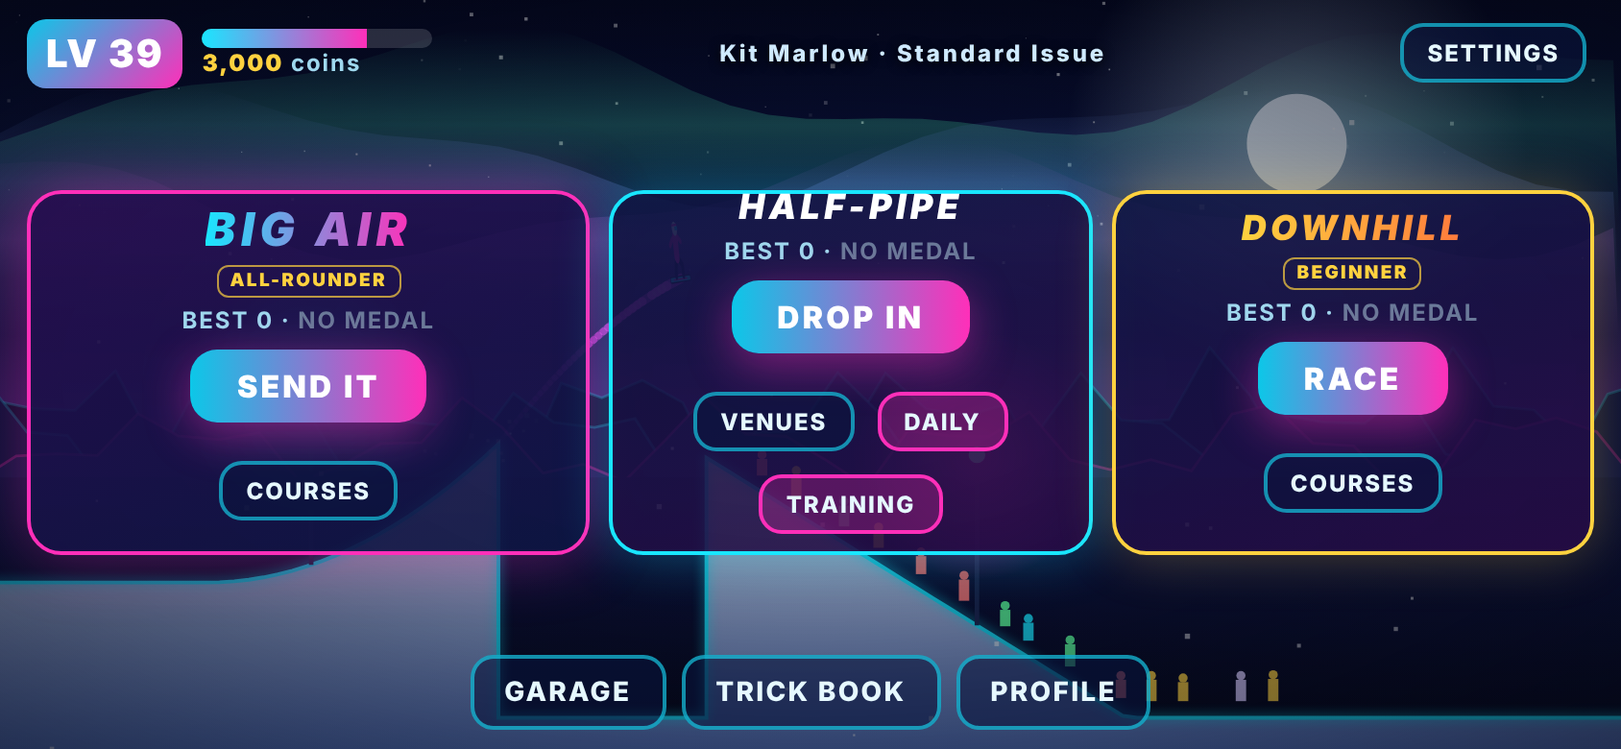
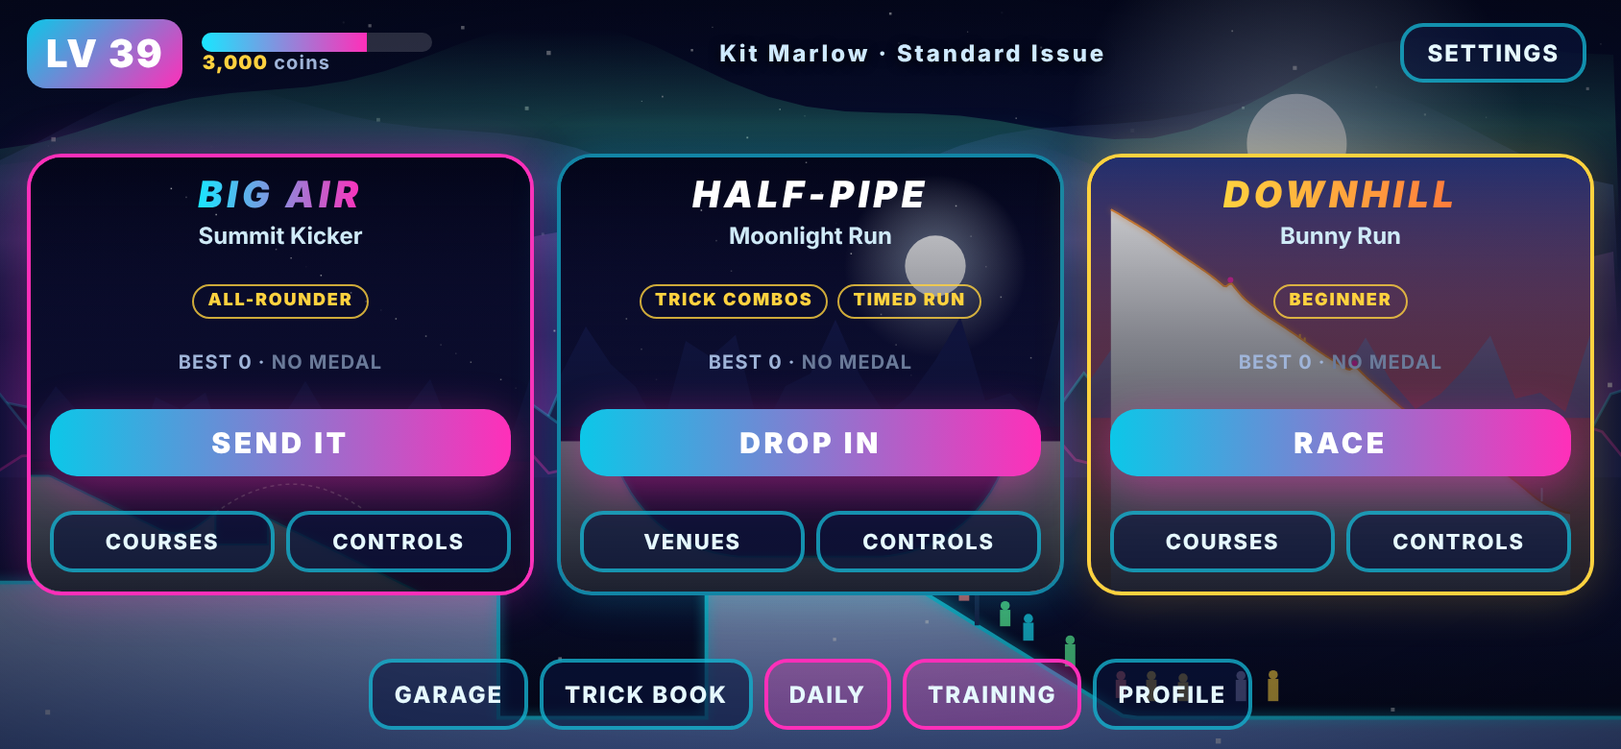
Add files via upload

diff --git a/index.html b/index.html
@@ -157,6 +157,47 @@ h3{margin:16px 0 8px;font:900 13px system-ui;letter-spacing:.2em;color:#cfeaff;t
 .big.sm2{padding:9px 24px;font-size:16px}
 @media (max-height:520px){.mcols{display:flex;gap:18px;align-items:center}.mcols>div{flex:1;min-width:0}.mcols .list{font-size:12px}.mcols .btn{padding:8px 12px;font-size:12px}}
 @media (max-height:460px){.card{padding:10px 14px}.big{padding:10px 26px;font-size:17px}.sub{margin-bottom:6px}.score{font-size:34px}}
+
+/* ---- uniform hub cards ---- */
+.hub .modes{display:flex;gap:12px;width:100%;max-width:920px;align-self:center;flex:1;min-height:0;max-height:270px;margin:auto 0}
+.hub .mode{position:relative;overflow:hidden;flex:1 1 0;min-width:0;max-width:none;padding:0;border-radius:18px;border:2px solid rgba(25,230,255,.55);background:#0a1038;display:block;box-shadow:0 0 24px rgba(25,230,255,.22)}
+.hub .mode.m-air{border-color:var(--mg);box-shadow:0 0 26px rgba(255,47,185,.3)}
+.hub .mode.m-dh{border-color:var(--gold);box-shadow:0 0 26px rgba(255,210,63,.26)}
+.hub .mbg{position:absolute;inset:0;width:100%;height:100%;display:block}.hub .mode .mv{display:block!important}
+.hub .mshade{position:absolute;inset:0;background:linear-gradient(180deg,rgba(5,8,24,.12),rgba(5,8,24,.5) 42%,rgba(5,8,24,.9))}
+.hub .mi{position:relative;z-index:1;height:100%;display:flex;flex-direction:column;align-items:center;justify-content:space-between;padding:10px 10px 10px;gap:4px;text-align:center}
+.hub .mt{font:900 clamp(19px,4.6vmin,26px) system-ui;letter-spacing:.12em;font-style:italic;line-height:1.1;color:#fff}
+.hub .m-air .mt{background:linear-gradient(90deg,var(--cy),var(--mg));-webkit-background-clip:text;background-clip:text;color:transparent}
+.hub .m-dh .mt{background:linear-gradient(90deg,#ffd23f,#ff7a3c);-webkit-background-clip:text;background-clip:text;color:transparent}
+.hub .mv{font:700 13px system-ui;color:#cfeaf7;margin-top:2px;white-space:nowrap;overflow:hidden;text-overflow:ellipsis;max-width:100%}
+.hub .mhead{min-width:0;max-width:100%}
+.hub .tagrow{display:flex;gap:5px;justify-content:center;flex-wrap:nowrap;min-height:18px}
+.hub .tagrow i{font:900 9px system-ui;font-style:normal;letter-spacing:.1em;border:1.5px solid rgba(255,210,63,.8);color:#ffd23f;border-radius:999px;padding:2px 7px;white-space:nowrap}
+.hub .meta{font:700 11px system-ui;letter-spacing:.06em;color:#9fb4d8;white-space:nowrap}
+.hub .mode .big{width:100%;margin:0;padding:10px 6px;font-size:17px;letter-spacing:.12em}
+.hub .row2{display:flex;gap:6px;width:100%}
+.hub .row2 .btn{flex:1;margin:0;padding:7px 4px;font-size:11px;letter-spacing:.08em;min-width:0}
+.hub .nav{flex-wrap:nowrap}
+.hub .nav{gap:6px}.hub .nav .btn{padding:9px 11px;font-size:12px;white-space:nowrap}
+@media (max-height:420px){.hub .mv{font-size:12px}.hub .mode .big{padding:8px 6px;font-size:15px}.hub .modes{max-height:230px}.hub .meta{font-size:10px}}
+@media (max-width:700px){.hub .nav .btn{padding:8px 9px;font-size:11px}.hub .modes{gap:8px}.hub .tagrow i{font-size:8px;padding:2px 5px}.hub .mode .big{font-size:14px;letter-spacing:.06em}}
+@media (max-aspect-ratio:1/1){.hub .modes{flex-direction:column;max-height:none;gap:8px}.hub .mode{flex:1 1 0;min-height:130px}.hub .nav{flex-wrap:wrap}.hub .mi{flex-direction:row;flex-wrap:wrap;justify-content:center;align-content:center;gap:6px 10px}.hub .mhead{flex:1 1 100%}.hub .tagrow{flex:1 1 100%}.hub .meta{flex:1 1 100%}.hub .mode .big{flex:1 1 40%;width:auto}.hub .row2{flex:1 1 55%;width:auto}}
+/* ---- how to play ---- */
+.how{display:flex;gap:16px;align-items:stretch;max-width:880px;margin:0 auto}
+.hphone{flex:0 0 46%;position:relative;min-height:170px;border:2px solid rgba(25,230,255,.5);border-radius:18px;background:linear-gradient(160deg,rgba(14,22,66,.9),rgba(40,12,70,.9));display:flex;overflow:hidden}
+.hz{flex:1;display:flex;flex-direction:column;align-items:center;justify-content:center;gap:6px;padding:10px;text-align:center}
+.hz span{font:600 11px system-ui;color:#9fd8ee}
+.hl{background:rgba(25,230,255,.1);border-right:2px dashed rgba(25,230,255,.4)}
+.hl b{font:900 22px system-ui;letter-spacing:.1em;color:var(--cy);border:2px solid var(--cy);border-radius:50%;width:76px;height:76px;display:flex;align-items:center;justify-content:center;font-size:15px}
+.hr{flex:0 0 40%}
+.hgb{display:grid;grid-template-columns:1fr 1fr;gap:5px}
+.hgb i{font:800 9px system-ui;font-style:normal;border:2px solid var(--cy);border-radius:50%;width:38px;height:38px;display:flex;align-items:center;justify-content:center}
+.hub2{font:900 10px system-ui;border:2px solid var(--mg);color:var(--mg);border-radius:50%;width:44px;height:44px;display:flex;align-items:center;justify-content:center}
+.hsteps{flex:1;margin:0;padding:0 0 0 22px;font:600 14px/1.35 system-ui;display:flex;flex-direction:column;gap:8px;justify-content:center}
+.hsteps li::marker{color:var(--gold);font-weight:900}.hsteps b{color:var(--cy)}
+.hkeys{max-width:880px;margin:12px auto 0;font:600 12px system-ui;color:#9fd8ee;text-align:center;line-height:1.5}.hkeys b{color:#fff;letter-spacing:.1em}
+@media (max-aspect-ratio:1/1),(max-width:620px){.how{flex-direction:column}.hphone{flex:none;min-height:150px}}
+@media (max-height:420px){.hsteps{font-size:12.5px;gap:5px}.hphone{min-height:140px}.hl b{width:62px;height:62px}}
 </style>
 </head>
 <body>
@@ -346,7 +387,7 @@ let SAVE=null;
 function defaultSave(){
   return {v:2,xp:0,coins:0,sel:{rider:0,board:0,venue:0,air:0,dh:0},boardsU:[1,0,0,0,0,0,0,0,0,0,0,0,0,0,0,0,0,0,0,0],best:[0,0,0,0,0,0,0,0],medals:[0,0,0,0,0,0,0,0],bestAir:[0,0,0,0,0,0,0,0,0,0,0,0],medalsAir:[0,0,0,0,0,0,0,0,0,0,0,0],bestDh:[0,0,0,0,0,0,0,0],medalsDh:[0,0,0,0,0,0,0,0],codex:{},ach:{},
     tot:{runs:0,gems:0,gold:0,perfects:0,tricks:0,ubers:0,bails:0,maxAlt:0,bestChain:0,maxSpin:0,maxFlips:0,maxComps:0,bestScore:0,cleanRuns:0,maxMom:0,maxDist:0,airRuns:0,dhRuns:0,dhWins:0,dhPodiums:0},
-    settings:{music:0.6,sfx:0.8,haptics:true,shake:true,lefty:false,sens:1},tutDone:false,daily:{last:-1,best:0,streak:0,doneDay:-1}};
+    settings:{music:0.6,sfx:0.8,haptics:true,shake:true,lefty:false,sens:1},tutDone:false,seen:{},daily:{last:-1,best:0,streak:0,doneDay:-1}};
 }
 function loadSave(){
   const d=defaultSave();
@@ -784,7 +825,7 @@ function endRun(title){
   bank();
   S.time=Math.max(0,S.time);
   S.mode='over';
-  const air=S.kind==='air', dh=S.kind==='dh', V=air?AIRS[S.ai]:dh?DHS[S.di]:VENUES[curVenue], vi=air?S.ai:dh?S.di:curVenue, bestA=air?SAVE.bestAir:dh?SAVE.bestDh:SAVE.best, medA=air?SAVE.medalsAir:dh?SAVE.medalsDh:SAVE.medals, sc=Math.round(S.score), st=S.st, MEDS=dh?DH_MEDALS:V.medals;
+  const air=S.kind==='air', dh=S.kind==='dh', V=air?AIRS[S.ai]:dh?DHS[S.di]:VENUES[curVenue], vi=air?S.ai:dh?S.di:curVenue, bestA=air?SAVE.bestAir:dh?SAVE.bestDh:SAVE.best, medA=air?SAVE.medalsAir:dh?SAVE.medalsDh:SAVE.medals, sc=Math.round(S.score), st=S.st, MEDS=dh?[DH_MEDALS[0],DH_MEDALS[1],DH_MEDALS[2],V.plat||DH_MEDALS[3]]:V.medals;
   let medal=0; for(let i=0;i<4;i++) if(sc>=MEDS[i]) medal=i+1;
   if(dh&&S.dnf) medal=0;
   const prevLv=curLevel();
@@ -1746,14 +1787,14 @@ function renderAir(dt){
 
 /* ================= DOWNHILL RACE MODE ================= */
 const DHS=[
- {name:'Bunny Run',sub:'A friendly first descent',lvl:1,pv:1,len:1050,a0:13,av:3,ka:15,ramps:3,rocks:0.9,mog:0,pads:3,drag:1,pace:1.111,par:34.17,tags:['BEGINNER'],fav:'Everyone',seed:11,vn:30},
- {name:'Pine Rush',sub:'Rocks, logs and moguls',lvl:3,pv:0,len:1250,a0:15,av:4,ka:16,ramps:4,rocks:2.0,mog:1,pads:3,drag:1,pace:0.989,par:36.93,tags:['OBSTACLES','MOGULS'],fav:'Balance riders',seed:23,vn:33},
- {name:'Powder Chute',sub:'Steep drops and big kickers',lvl:6,pv:2,len:1300,a0:18,av:5,ka:19,ramps:5,rocks:1.3,mog:0,pads:3,drag:1,pace:1,par:37.37,tags:['STEEP','BIG KICKERS'],fav:'Speed boards',seed:37,vn:38},
- {name:'Glacier Express',sub:'Slick ice, huge speed',lvl:9,pv:2,pal:'crystal',len:1400,a0:13,av:3,ka:17,ramps:4,rocks:1.6,mog:0,pads:4,drag:0.74,pace:0.879,par:38.59,tags:['ICE','FAST'],fav:'Control riders',seed:41,vn:38},
- {name:'Avalanche Alley',sub:'Outrun the wall of snow',lvl:12,pv:5,len:1450,a0:16,av:4,ka:17,ramps:4,rocks:1.7,mog:1,pads:5,drag:1,pace:0.829,par:40.15,av0:15,avAcc:0.5,avGap:75,tags:['AVALANCHE'],fav:'Fast starters',seed:53,vn:35},
- {name:'Neon Dash',sub:'City lights and jump after jump',lvl:15,pv:4,len:1350,a0:15,av:3,ka:18,ramps:9,rocks:0.9,mog:0,pads:8,drag:1,pace:1,par:43.64,spinX:1.3,flipX:1.3,tags:['JUMP HEAVY','BOOST PADS','TRICKS x1.3'],fav:'Trick riders',seed:67,vn:34},
- {name:'Thunder Gorge',sub:'Headwind and a field of rocks',lvl:18,pv:5,len:1250,a0:17,av:4,ka:17,ramps:4,rocks:3.0,mog:2,pads:4,drag:1,wind:-2.6,pace:1.161,par:40.89,tags:['HEADWIND','ROCK FIELD'],fav:'Power pumpers',seed:79,vn:36},
- {name:'Summit to Sea',sub:'The longest, nastiest run',lvl:22,pv:1,pal:'golden',len:1700,a0:16,av:5,ka:18,ramps:8,rocks:2.2,mog:3,pads:7,drag:0.9,wind:-1.5,pace:1.272,par:57.12,tags:['EPIC LENGTH','ALL HAZARDS'],fav:'Everyone',seed:97,vn:36}
+ {name:'Bunny Run',sub:'A friendly first descent',lvl:1,pv:1,len:900,a0:13,av:3,ka:15,ramps:3,rocks:0.9,mog:0,pads:2,drag:1,pace:1.052,par:29.52,tags:['BEGINNER'],fav:'Everyone',plat:125000,seed:11,vn:30},
+ {name:'Pine Rush',sub:'Rocks, logs and moguls',lvl:3,pv:0,len:1700,a0:15,av:4,ka:16,ramps:6,rocks:2.0,mog:2,pads:4,drag:1,pace:1.007,par:49.7,tags:['OBSTACLES','MOGULS'],fav:'Balance riders',plat:140000,seed:23,vn:33},
+ {name:'Powder Chute',sub:'Steep drops and big kickers',lvl:6,pv:2,len:1000,a0:18,av:5,ka:19,ramps:4,rocks:1.3,mog:0,pads:3,drag:1,pace:1.036,par:30.27,tags:['STEEP','BIG KICKERS'],fav:'Speed boards',plat:135000,seed:37,vn:38},
+ {name:'Glacier Express',sub:'Slick ice, huge speed',lvl:9,pv:2,pal:'crystal',len:2300,a0:13,av:3,ka:17,ramps:7,rocks:1.6,mog:0,pads:5,drag:0.74,pace:1.059,par:65.24,tags:['ICE','FAST'],fav:'Control riders',plat:150000,seed:41,vn:38},
+ {name:'Avalanche Alley',sub:'Outrun the wall of snow',lvl:12,pv:5,len:2200,a0:16,av:4,ka:17,ramps:7,rocks:1.7,mog:2,pads:6,drag:1,pace:0.893,par:61.38,av0:15,avAcc:0.5,avGap:75,tags:['AVALANCHE'],fav:'Fast starters',plat:150000,seed:53,vn:35},
+ {name:'Neon Dash',sub:'City lights and jump after jump',lvl:15,pv:4,len:1200,a0:15,av:3,ka:18,ramps:8,rocks:0.9,mog:0,pads:7,drag:1,pace:0.905,par:37.71,spinX:1.3,flipX:1.3,tags:['JUMP HEAVY','BOOST PADS','TRICKS x1.3'],fav:'Trick riders',plat:150000,seed:67,vn:34},
+ {name:'Thunder Gorge',sub:'Headwind and a field of rocks',lvl:18,pv:5,len:2000,a0:17,av:4,ka:17,ramps:6,rocks:3.0,mog:3,pads:5,drag:1,wind:-2.6,pace:1.183,par:65.33,tags:['HEADWIND','ROCK FIELD'],fav:'Power pumpers',plat:150000,seed:79,vn:36},
+ {name:'Summit to Sea',sub:'The longest, nastiest run',lvl:22,pv:1,pal:'golden',len:2900,a0:16,av:5,ka:18,ramps:13,rocks:2.2,mog:5,pads:9,drag:0.9,wind:-1.5,pace:1.195,par:92.71,tags:['EPIC LENGTH','ALL HAZARDS'],fav:'Everyone',plat:180000,seed:97,vn:36}
 ];
 const dhUnlocked=i=>curLevel()>=DHS[i].lvl;
 const DH_DRAG=0.0065, KMH=3.4;
@@ -2260,22 +2301,38 @@ function trickNameFromKey(k){
 
 /* ---- screens ---- */
 function scrTitle(){
-  return '<div class="tscr" data-act="scr:main"><div class="tlogo"><div class="eyebrow">THE ULTIMATE SNOWBOARD FREESTYLE GAME</div><div class="l1"><span class="a">FROST</span><span class="b">LINE</span></div><div class="rule"></div><div class="tag">'+GAME_TAG+'</div><div class="chips2"><i>BIG AIR</i><i>HALF-PIPE</i><i>DOWNHILL</i></div></div><div class="tap">TAP TO START</div><div class="tfoot"><span>'+(SAVE.tot.runs?'LEVEL '+curLevel()+' &nbsp;&middot;&nbsp; '+fmt(SAVE.coins)+' COINS':'WELCOME, RIDER')+'</span><span>v1.0</span></div></div>';
+  return '<div class="tscr" data-act="scr:main"><div class="tlogo"><div class="eyebrow">THE ULTIMATE SNOWBOARD FREESTYLE GAME</div><div class="l1"><span class="a">FROST</span><span class="b">LINE</span></div><div class="rule"></div><div class="tag">'+GAME_TAG+'</div><div class="chips2"><i>BIG AIR</i><i>HALF-PIPE</i><i>DOWNHILL</i></div></div><div class="tap">TAP TO START</div><div class="tfoot"><span>'+(SAVE.tot.runs?'LEVEL '+curLevel()+' &nbsp;&middot;&nbsp; '+fmt(SAVE.coins)+' COINS':'WELCOME, RIDER')+'</span><span>v1.1</span></div></div>';
 }
 function scrMain(){
   const V=VENUES[SAVE.sel.venue], R=RIDERS[SAVE.sel.rider], B=BOARDS[SAVE.sel.board], dc=dailyConfig(), L=levelInfo(SAVE.xp);
   const ai=SAVE.sel.air, AC=AIRS[ai], dDone=SAVE.daily.last===dayNum(), m=SAVE.medals[SAVE.sel.venue], am=SAVE.medalsAir[ai];
   const goalsL=briefGoals.length;
   let h='<div class="hub"><div class="top"><div class="pl"><div class="plv">LV '+L.l+'</div><div><div class="lvbar" style="margin:0;width:120px"><i style="width:'+Math.round(L.x/L.need*100)+'%"></i></div><div class="meta"><span class="coin">'+fmt(SAVE.coins)+'</span> coins'+(SAVE.daily.streak>0?' &middot; '+SAVE.daily.streak+'-day streak':'')+'</div></div></div><div class="who">'+esc(R.name)+' &middot; '+esc(B.name)+'</div><button class="btn sm" data-act="scr:settings">SETTINGS</button></div>';
-  h+='<div class="modes"><div class="mode hero"><div class="mt">BIG AIR</div><div class="mv">'+esc(AC.name)+'</div><div class="tagrow">'+AC.tags.map(t=>'<i>'+esc(t)+'</i>').join('')+'</div><div class="meta">BEST '+fmt(SAVE.bestAir[ai])+' &middot; <span style="color:'+MEDAL_COL[am]+'">'+MEDAL_NAMES[am]+'</span></div><button class="big" data-act="air">SEND IT</button><div class="row"><button class="btn sm" data-act="vtab:air">COURSES</button></div></div>';
-  h+='<div class="mode on"><div class="mt">HALF-PIPE</div><div class="mv">'+esc(V.name)+'</div><div class="meta">BEST '+fmt(SAVE.best[SAVE.sel.venue])+' &middot; <span style="color:'+MEDAL_COL[m]+'">'+MEDAL_NAMES[m]+'</span></div><button class="big sm2" data-act="play">DROP IN</button><div class="row"><button class="btn sm" data-act="vtab:pipe">VENUES</button><button class="btn sm mg" data-act="daily">DAILY'+(dDone?' ✓':'')+'</button><button class="btn sm'+(SAVE.tutDone?'':' mg')+'" data-act="tut">TRAINING</button></div></div>';
   const di=SAVE.sel.dh, DC=DHS[di], dm=SAVE.medalsDh[di];
-  h+='<div class="mode dhm"><div class="mt">DOWNHILL</div><div class="mv">'+esc(DC.name)+'</div><div class="tagrow">'+DC.tags.slice(0,2).map(t=>'<i>'+esc(t)+'</i>').join('')+'</div><div class="meta">BEST '+fmt(SAVE.bestDh[di])+' &middot; <span style="color:'+MEDAL_COL[dm]+'">'+MEDAL_NAMES[dm]+'</span></div><button class="big sm2" data-act="dh">RACE</button><div class="row"><button class="btn sm" data-act="vtab:dh">COURSES</button></div></div></div>';
-  h+='<div class="nav"><button class="btn" data-act="scr:garage">GARAGE</button><button class="btn" data-act="scr:codex">TRICK BOOK</button><button class="btn" data-act="scr:profile">PROFILE</button></div></div>';
+  const card=(cls,title,name,tags,best,medal,cv,prim,pact,sec)=>'<div class="mode '+cls+'"><canvas class="mbg" data-k="'+cv[0]+'" data-i="'+cv[1]+'"></canvas><div class="mshade"></div><div class="mi"><div class="mhead"><div class="mt">'+title+'</div><div class="mv">'+esc(name)+'</div></div><div class="tagrow">'+tags.map(t=>'<i>'+esc(t)+'</i>').join('')+'</div><div class="meta">BEST '+fmt(best)+' &middot; <span style="color:'+MEDAL_COL[medal]+'">'+MEDAL_NAMES[medal]+'</span></div><button class="big" data-act="'+pact+'">'+prim+'</button><div class="row2">'+sec.map(x=>'<button class="btn sm" data-act="'+x[1]+'">'+x[0]+'</button>').join('')+'</div></div></div>';
+  h+='<div class="modes">'+
+    card('m-air','BIG AIR',AC.name,AC.tags.slice(0,2),SAVE.bestAir[ai],am,['air',ai],'SEND IT','air',[['COURSES','vtab:air'],['CONTROLS','how:air']])+
+    card('m-pipe','HALF-PIPE',V.name,['TRICK COMBOS','TIMED RUN'],SAVE.best[SAVE.sel.venue],m,['venue',SAVE.sel.venue],'DROP IN','play',[['VENUES','vtab:pipe'],['CONTROLS','how:pipe']])+
+    card('m-dh','DOWNHILL',DC.name,DC.tags.slice(0,2),SAVE.bestDh[di],dm,['dh',di],'RACE','dh',[['COURSES','vtab:dh'],['CONTROLS','how:dh']])+'</div>';
+  h+='<div class="nav"><button class="btn" data-act="scr:garage">GARAGE</button><button class="btn" data-act="scr:codex">TRICK BOOK</button><button class="btn mg" data-act="daily">DAILY'+(dDone?' ✓':'')+'</button><button class="btn'+(SAVE.tutDone?'':' mg')+'" data-act="tut">TRAINING</button><button class="btn" data-act="scr:profile">PROFILE</button></div></div>';
   return h;
 }
 function frame(title,body,back,right){
   return '<div class="frame"><div class="fh"><button class="btn sm" data-act="scr:'+(back||'main')+'">&lsaquo; BACK</button><h2>'+title+'</h2><div class="fr">'+(right===undefined?'<span class="coin">'+fmt(SAVE.coins)+'</span> coins':right)+'</div></div><div class="fb">'+body+'</div></div>';
+}
+
+let howTab='air', howGo=null;
+const HOW={
+ air:{t:'BIG AIR',steps:['<b>HOLD</b> the left side of the screen to build speed down the run-in.','<b>RELEASE</b> in the glowing band at the lip. Perfect timing = a bigger launch.','In the air, <b>DRAG</b> for spins and flips. <b>Hold INDY / MUTE / NOSE / TAIL</b> for grabs.','Get your board level and land on the slope. Clear the gap!','Collect gems to fill <b>UBER</b>, then tap it for a huge trick. You get 3 jumps per run.']},
+ pipe:{t:'HALF-PIPE',steps:['<b>HOLD</b> to pump up the wall and charge your pop.','<b>RELEASE</b> in the glowing band at the lip. Perfect pops build momentum.','In the air, <b>DRAG</b> for spins and flips. <b>Hold INDY / MUTE / NOSE / TAIL</b> for grabs.','Land clean to bank your combo. A bail loses it all.','Chain tricks before time runs out. Fill <b>UBER</b> with gems for a monster trick.']},
+ dh:{t:'DOWNHILL',steps:['At the start, <b>HOLD</b> just as the countdown ends for a <b>ROCKET START</b>.','<b>HOLD</b> to tuck and go faster. <b>RELEASE</b> to hop over rocks and logs.','In <b>MOGULS</b>, let go and stand up. Tucking there slows you down.','<b>RELEASE</b> in the glowing band at ramps to pop, then do tricks. A clean landing gives a speed <b>BOOST</b>.','Hit boost pads, beat the 5 rivals, and finish top 3 for a medal.']}
+};
+function scrHow(){
+  const H=HOW[howTab], tab=(k,n)=>'<button class="btn sm'+(howTab===k?' on':'')+'" data-act="how:'+k+'">'+n+'</button>';
+  let h='<div class="tabs">'+tab('air','BIG AIR')+tab('pipe','HALF-PIPE')+tab('dh','DOWNHILL')+'</div><div class="how"><div class="hphone"><div class="hz hl"><b>HOLD</b><span>press anywhere on the left</span><span>drag = spin / flip in the air</span></div><div class="hz hr"><div class="hgb"><i>INDY</i><i>MUTE</i><i>NOSE</i><i>TAIL</i></div><div class="hub2">UBER</div><span>grabs</span></div></div><ol class="hsteps">'+H.steps.map(x=>'<li>'+x+'</li>').join('')+'</ol></div>';
+  h+='<div class="hkeys"><b>KEYBOARD</b> &nbsp;SPACE = hold &middot; ARROWS / WASD = spin &amp; flip &middot; Z X C V = grabs &middot; E = Uber &middot; P = pause</div>';
+  if(howGo) h+='<div class="row" style="margin-top:10px"><button class="big" data-act="howgo">GOT IT &mdash; START</button></div>';
+  return frame('HOW TO PLAY',h,howGo?'main':(S&&S.mode==='paused'?'pause':'main'),howGo?'':undefined);
 }
 let garPv={rider:0,board:0}, garTab2='riders';
 const boardOrder=()=>BOARDS.map((b,i)=>i).sort((a,b)=>BOARDS[a].cost-BOARDS[b].cost);
@@ -2344,7 +2401,7 @@ function scrSettings(back){
   return frame('SETTINGS',body,back||'main',' ');
 }
 function scrPause(){
-  return '<h2>PAUSED</h2><div class="row"><button class="big" data-act="resume">RESUME</button></div><div class="row"><button class="btn" data-act="restart">RESTART</button><button class="btn" data-act="scr:psettings">SETTINGS</button><button class="btn" data-act="quit">QUIT TO MENU</button></div>';
+  return '<h2>PAUSED</h2><div class="row"><button class="big" data-act="resume">RESUME</button></div><div class="row"><button class="btn" data-act="restart">RESTART</button><button class="btn" data-act="howp">CONTROLS</button><button class="btn" data-act="scr:psettings">SETTINGS</button><button class="btn" data-act="quit">QUIT TO MENU</button></div>';
 }
 function scrOver(){
   const R=RES, st=R.st;
@@ -2362,7 +2419,7 @@ function scrOver(){
   h+='<div class="row"><button class="big" data-act="again">RUN AGAIN</button></div><div class="row"><button class="btn" data-act="share">SHARE SCORE</button><button class="btn" data-act="quit">MENU</button></div>';
   return h;
 }
-const SCREENS={title:scrTitle,main:scrMain,venues:scrVenues,garage:scrGarage,codex:scrCodex,profile:scrProfile,settings:()=>scrSettings('main'),psettings:()=>scrSettings('pause'),pause:scrPause,over:scrOver};
+const SCREENS={howto:scrHow,title:scrTitle,main:scrMain,venues:scrVenues,garage:scrGarage,codex:scrCodex,profile:scrProfile,settings:()=>scrSettings('main'),psettings:()=>scrSettings('pause'),pause:scrPause,over:scrOver};
 function showScr(name){
   if(!SAVE) return;
   const prev=curScr;
@@ -2371,7 +2428,7 @@ function showScr(name){
   const sc={fb:(q('.fb')||{}).scrollTop||0,gl:(q('.gl')||{}).scrollTop||0};
   curScr=name; if(name!=='settings'&&name!=='psettings') confirmReset=false;
   cardEl.innerHTML=SCREENS[name](); scrEl.classList.remove('hidden');
-  const full=(name==='title'||name==='main'), framed=['venues','garage','codex','profile','settings','psettings'].indexOf(name)>=0;
+  const full=(name==='title'||name==='main'), framed=['venues','garage','codex','profile','settings','psettings','howto'].indexOf(name)>=0;
   cardEl.className=(full||framed)?'full':'card'; scrEl.classList.toggle('plain',full); scrEl.classList.toggle('istitle',name==='title'); scrEl.classList.toggle('framed',framed);
   if(prev===name){ const f=q('.fb'),g=q('.gl'); if(f) f.scrollTop=sc.fb; if(g) g.scrollTop=sc.gl; }
   paintAll();
@@ -2402,12 +2459,16 @@ function togglePause(){
   else if(S.mode==='paused'){ S.mode='play'; hideScr(); acc=0; }
 }
 function quitToMenu(){ toMenuState(); setUIPlay(false); refreshGoals(); showScr('main'); }
+function firstTime(mode,go){ if(SAVE.seen[mode]) return false; SAVE.seen[mode]=1; persist(); howTab=mode; howGo=go; showScr('howto'); return true; }
 function act(a){
   const [k,v,w]=a.split(':');
   initAudio();
   switch(k){
-    case 'play': startPlay({},false); break;
-    case 'daily': startPlay({daily:true}); break;
+    case 'play': if(firstTime('pipe','play')) break; startPlay({},false); break;
+    case 'daily': if(firstTime('pipe','daily')) break; startPlay({daily:true}); break;
+    case 'howp': howTab=S.kind==='dh'?'dh':S.kind==='air'?'air':'pipe'; howGo=null; showScr('howto'); break;
+    case 'how': howTab=v; howGo=null; showScr('howto'); break;
+    case 'howgo': { const g=howGo; howGo=null; act(g); break; }
     case 'tut': startPlay({tut:true}); break;
     case 'again': if(RES&&RES.dh){ startDH(RES.vi); acc=0; } else if(RES&&RES.air){ startAir(RES.vi); acc=0; } else if(RES&&RES.daily) startPlay({daily:true}); else startPlay({},true); break;
     case 'scr': showScr(v); break;
@@ -2415,8 +2476,8 @@ function act(a){
     case 'restart': if(S.kind==='dh'){ const di=S.di; S.mode='over'; startDH(di); acc=0; break; } if(S.kind==='air'){ const ai=S.ai; S.mode='over'; startAir(ai); acc=0; break; } S.mode='over'; startPlay(S&&S.tut?{tut:true}:isDaily?{daily:true}:{},true); break;
     case 'quit': quitToMenu(); break;
     case 'venue': { const i=+v; if(venueUnlocked(i)){SAVE.sel.venue=i; persist(); toMenuState(); refreshGoals(); showScr('venues'); } else toast('LOCKED','Reach level '+VENUES[i].lvl+' to unlock'); break; }
-    case 'air': startAir(SAVE.sel.air); acc=0; break;
-    case 'dh': startDH(SAVE.sel.dh); acc=0; break;
+    case 'air': if(firstTime('air','air')) break; startAir(SAVE.sel.air); acc=0; break;
+    case 'dh': if(firstTime('dh','dh')) break; startDH(SAVE.sel.dh); acc=0; break;
     case 'dhsel': { const i=+v; if(dhUnlocked(i)){SAVE.sel.dh=i; persist(); showScr('venues');} else toast('LOCKED','Reach level '+DHS[i].lvl+' to unlock'); break; }
     case 'vtab': venTab=v; showScr('venues'); break;
     case 'airsel': { const i=+v; if(airUnlocked(i)){SAVE.sel.air=i; persist(); showScr('venues');} else toast('LOCKED','Reach level '+AIRS[i].lvl+' to unlock'); break; }

diff --git a/sw.js b/sw.js
@@ -1,5 +1,5 @@
 // Frostline service worker: cache-first for offline play. Bump VERSION on each release.
-const VERSION='frostline-v1.0.0';
+const VERSION='frostline-v1.1.0';
 const FILES=['./','./index.html','./manifest.webmanifest','./icons/icon-192.png','./icons/icon-512.png','./icons/favicon.png','./icons/apple-touch-icon.png'];
 self.addEventListener('install',e=>{e.waitUntil(caches.open(VERSION).then(c=>c.addAll(FILES)).then(()=>self.skipWaiting()));});
 self.addEventListener('activate',e=>{e.waitUntil(caches.keys().then(ks=>Promise.all(ks.filter(k=>k!==VERSION).map(k=>caches.delete(k)))).then(()=>self.clients.claim()));});

diff --git a/README.md b/README.md
@@ -34,6 +34,8 @@ There are three game modes, all sharing the same riders, boards, trick engine an
 
 ![Hub](docs/screenshots/hub.png)
 
+![How to play](docs/screenshots/how-to-play.png)
+
 ## Screenshots
 
 | Big Air | Half-Pipe | Downhill |
@@ -91,16 +93,18 @@ Distance past the lip earns a bonus, and landing jumps cleanly in a row builds a
 Moonlight Run · Alpine Sunrise · Aurora Glacier · Volcano Cup · Neon Downtown · Thunder Ridge · Blossom Pass · Orbital Pipe. Each has its own sky, effects (aurora, embers, city lights, storm, sakura, cosmos) and medal targets. Pop perfectly to build momentum (up to 6), fill the Uber meter, and chain tricks into combos before time runs out. There are also daily challenges and a training mode.
 
 ### Downhill — 8 courses, 5 AI rivals
+Course lengths range from quick 30-second sprints to a 95-second epic.
+
 | Lvl | Course | Twist |
 |---|---|---|
-| 1 | Bunny Run | Friendly first descent |
-| 3 | Pine Rush | Rocks, logs and moguls |
-| 6 | Powder Chute | Steep drops, big kickers |
-| 9 | Glacier Express | Slick ice, huge speed |
-| 12 | Avalanche Alley | A wall of snow chases you — get caught and the race is over |
-| 15 | Neon Dash | 9 jumps, boost pads, trick points ×1.3 |
-| 18 | Thunder Gorge | Headwind and a field of rocks |
-| 22 | Summit to Sea | The longest run, every hazard |
+| 1 | Bunny Run | Short and friendly first descent (~30 s) |
+| 3 | Pine Rush | Rocks, logs and moguls (~55 s) |
+| 6 | Powder Chute | Short, steep drops and big kickers (~30 s) |
+| 9 | Glacier Express | Long slick ice run, huge speed (~70 s) |
+| 12 | Avalanche Alley | Long run, a wall of snow chases you — get caught and the race is over (~65 s) |
+| 15 | Neon Dash | Short sprint, 8 jumps, boost pads, trick points ×1.3 (~40 s) |
+| 18 | Thunder Gorge | Long headwind run through a field of rocks (~70 s) |
+| 22 | Summit to Sea | The epic: longest run, every hazard (~95 s) |
 
 - **Tuck** to go faster, but let go in **moguls** to absorb the bumps.
 - **Hop** (release on open snow) to clear rocks and logs. Hitting one costs most of your speed.
@@ -120,6 +124,7 @@ Moonlight Run · Alpine Sunrise · Aurora Glacier · Volcano Cup · Neon Downtow
 - **Medals** (bronze / silver / gold / platinum) on every venue and course, plus per-run **goals** that award coins and XP.
 - **27 achievements**, a profile page with lifetime stats, and a shareable score card.
 - **Garage** with animated rider and board previews.
+- **How to Play** screen for every mode (also shown automatically the first time you start each mode, and from the Pause menu).
 
 ## Tech & design
 - Single-file HTML5 canvas game: no frameworks, no assets, no build step needed to play. All art is drawn in code and all audio is synthesised with Web Audio.
